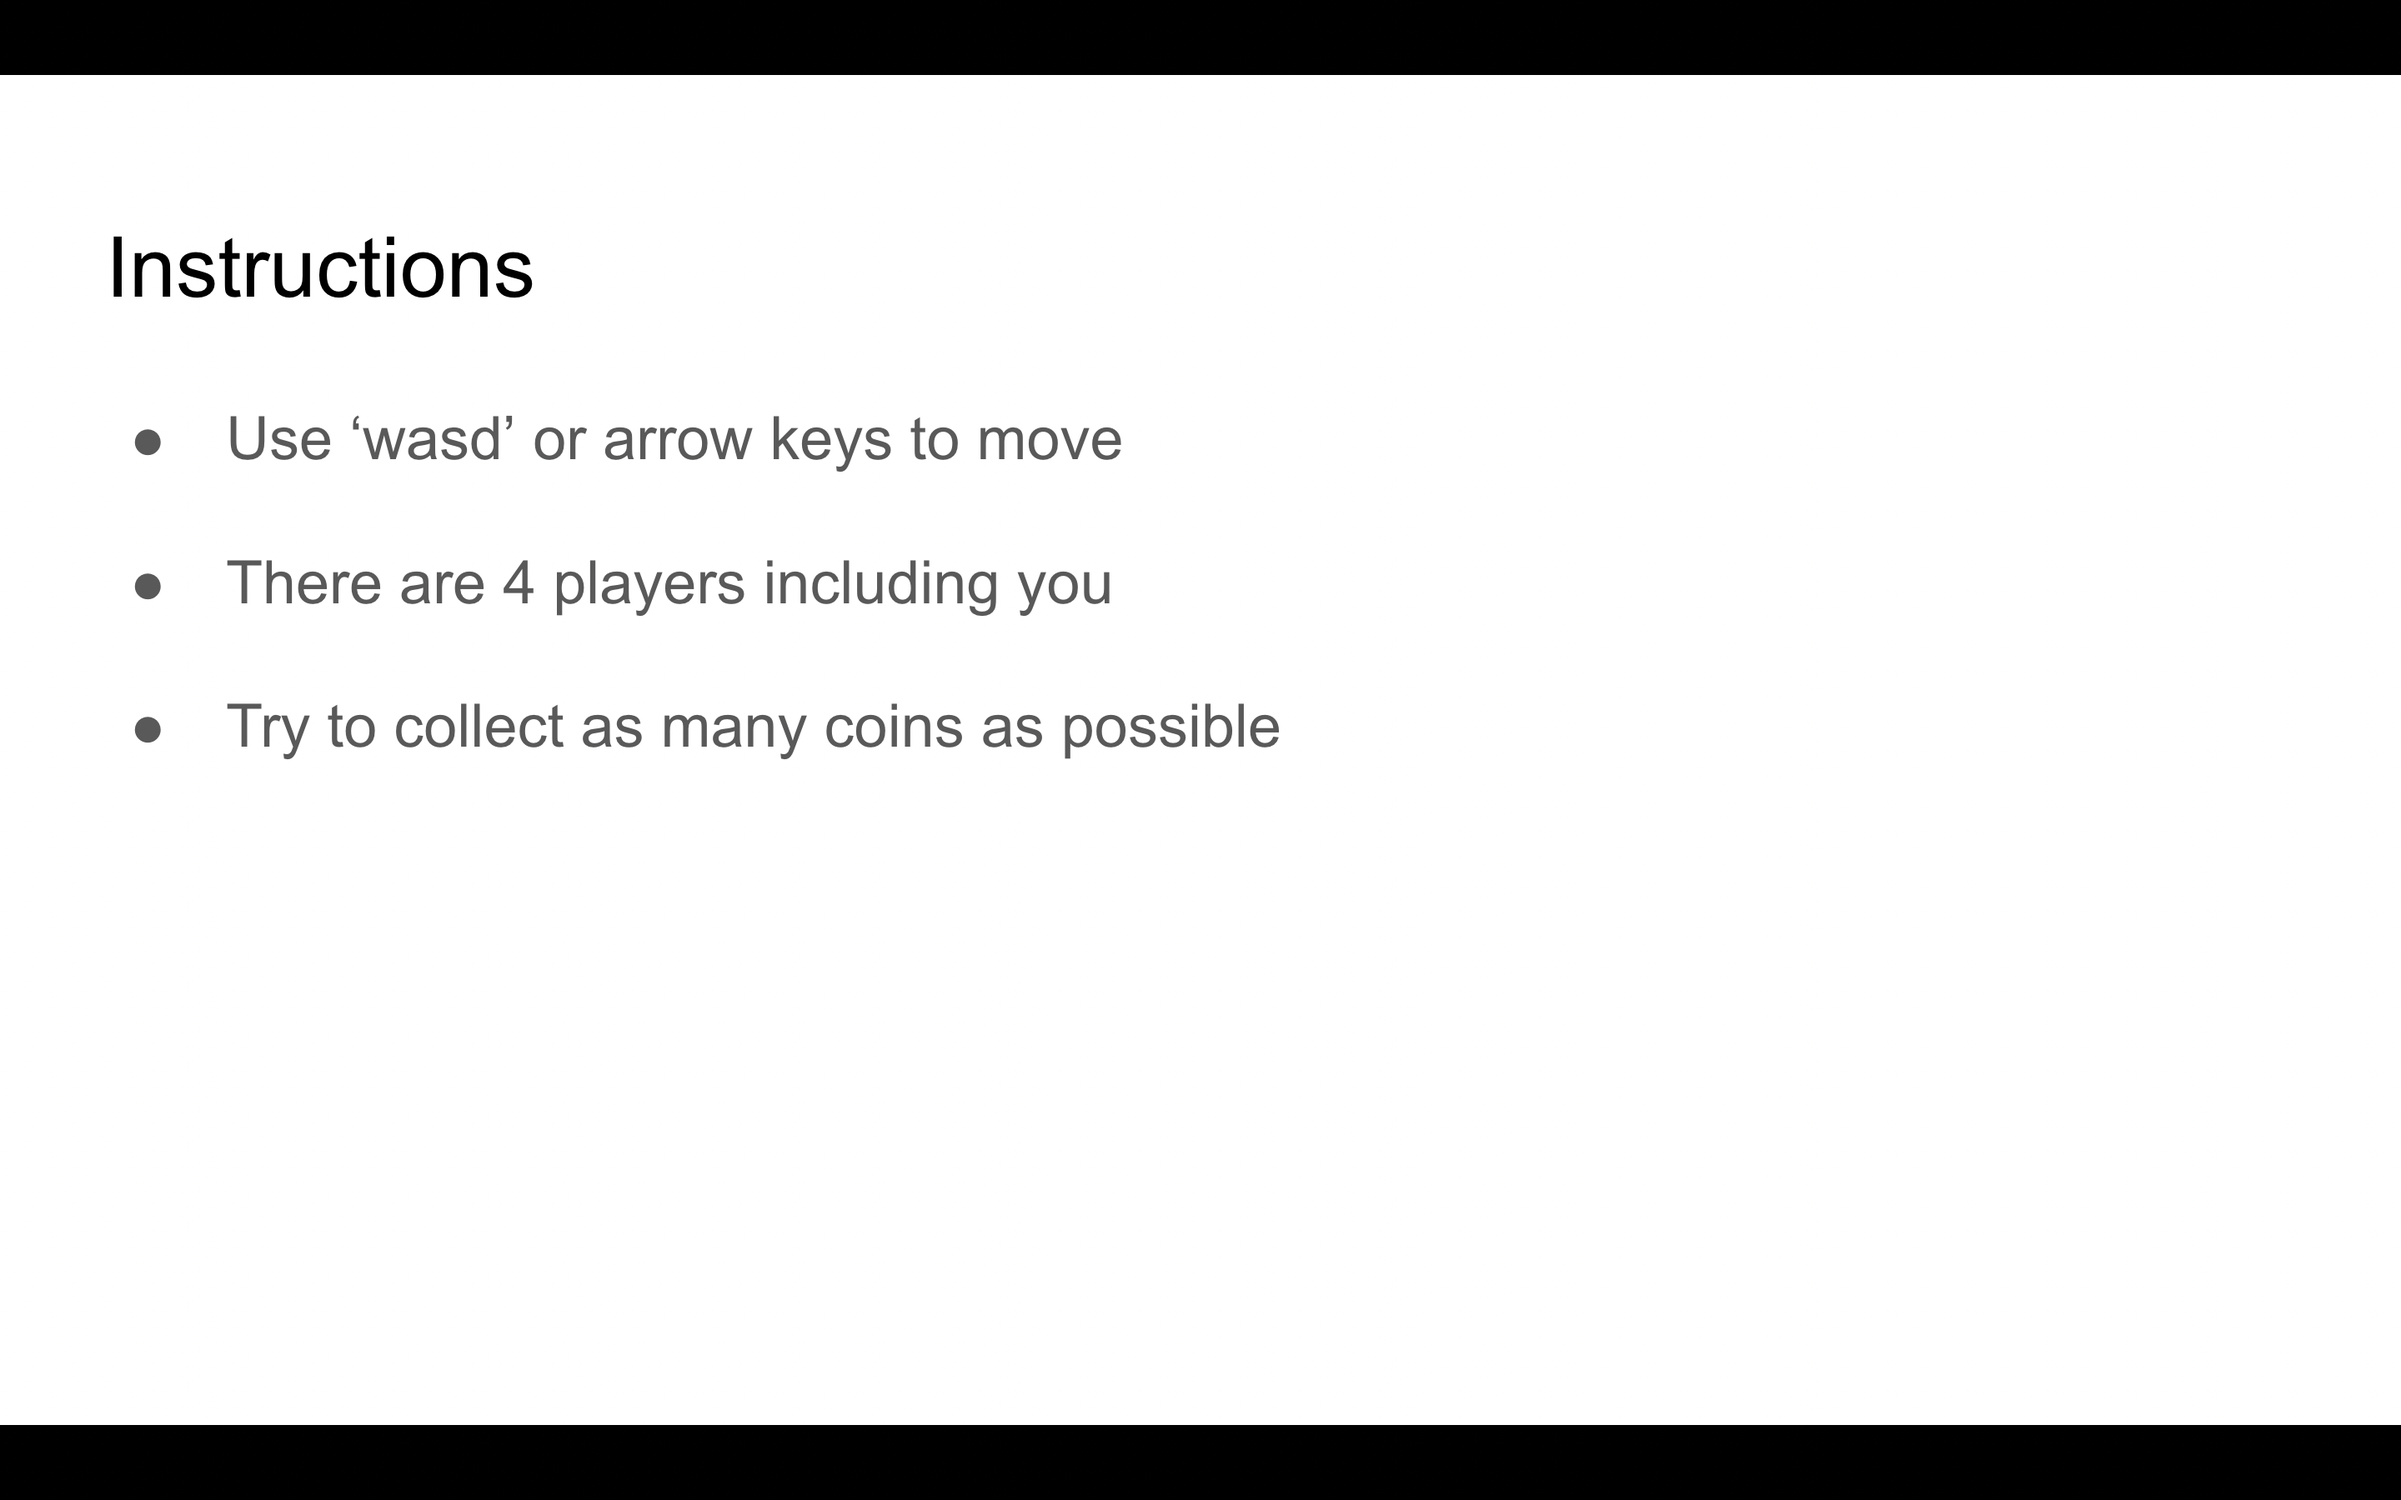
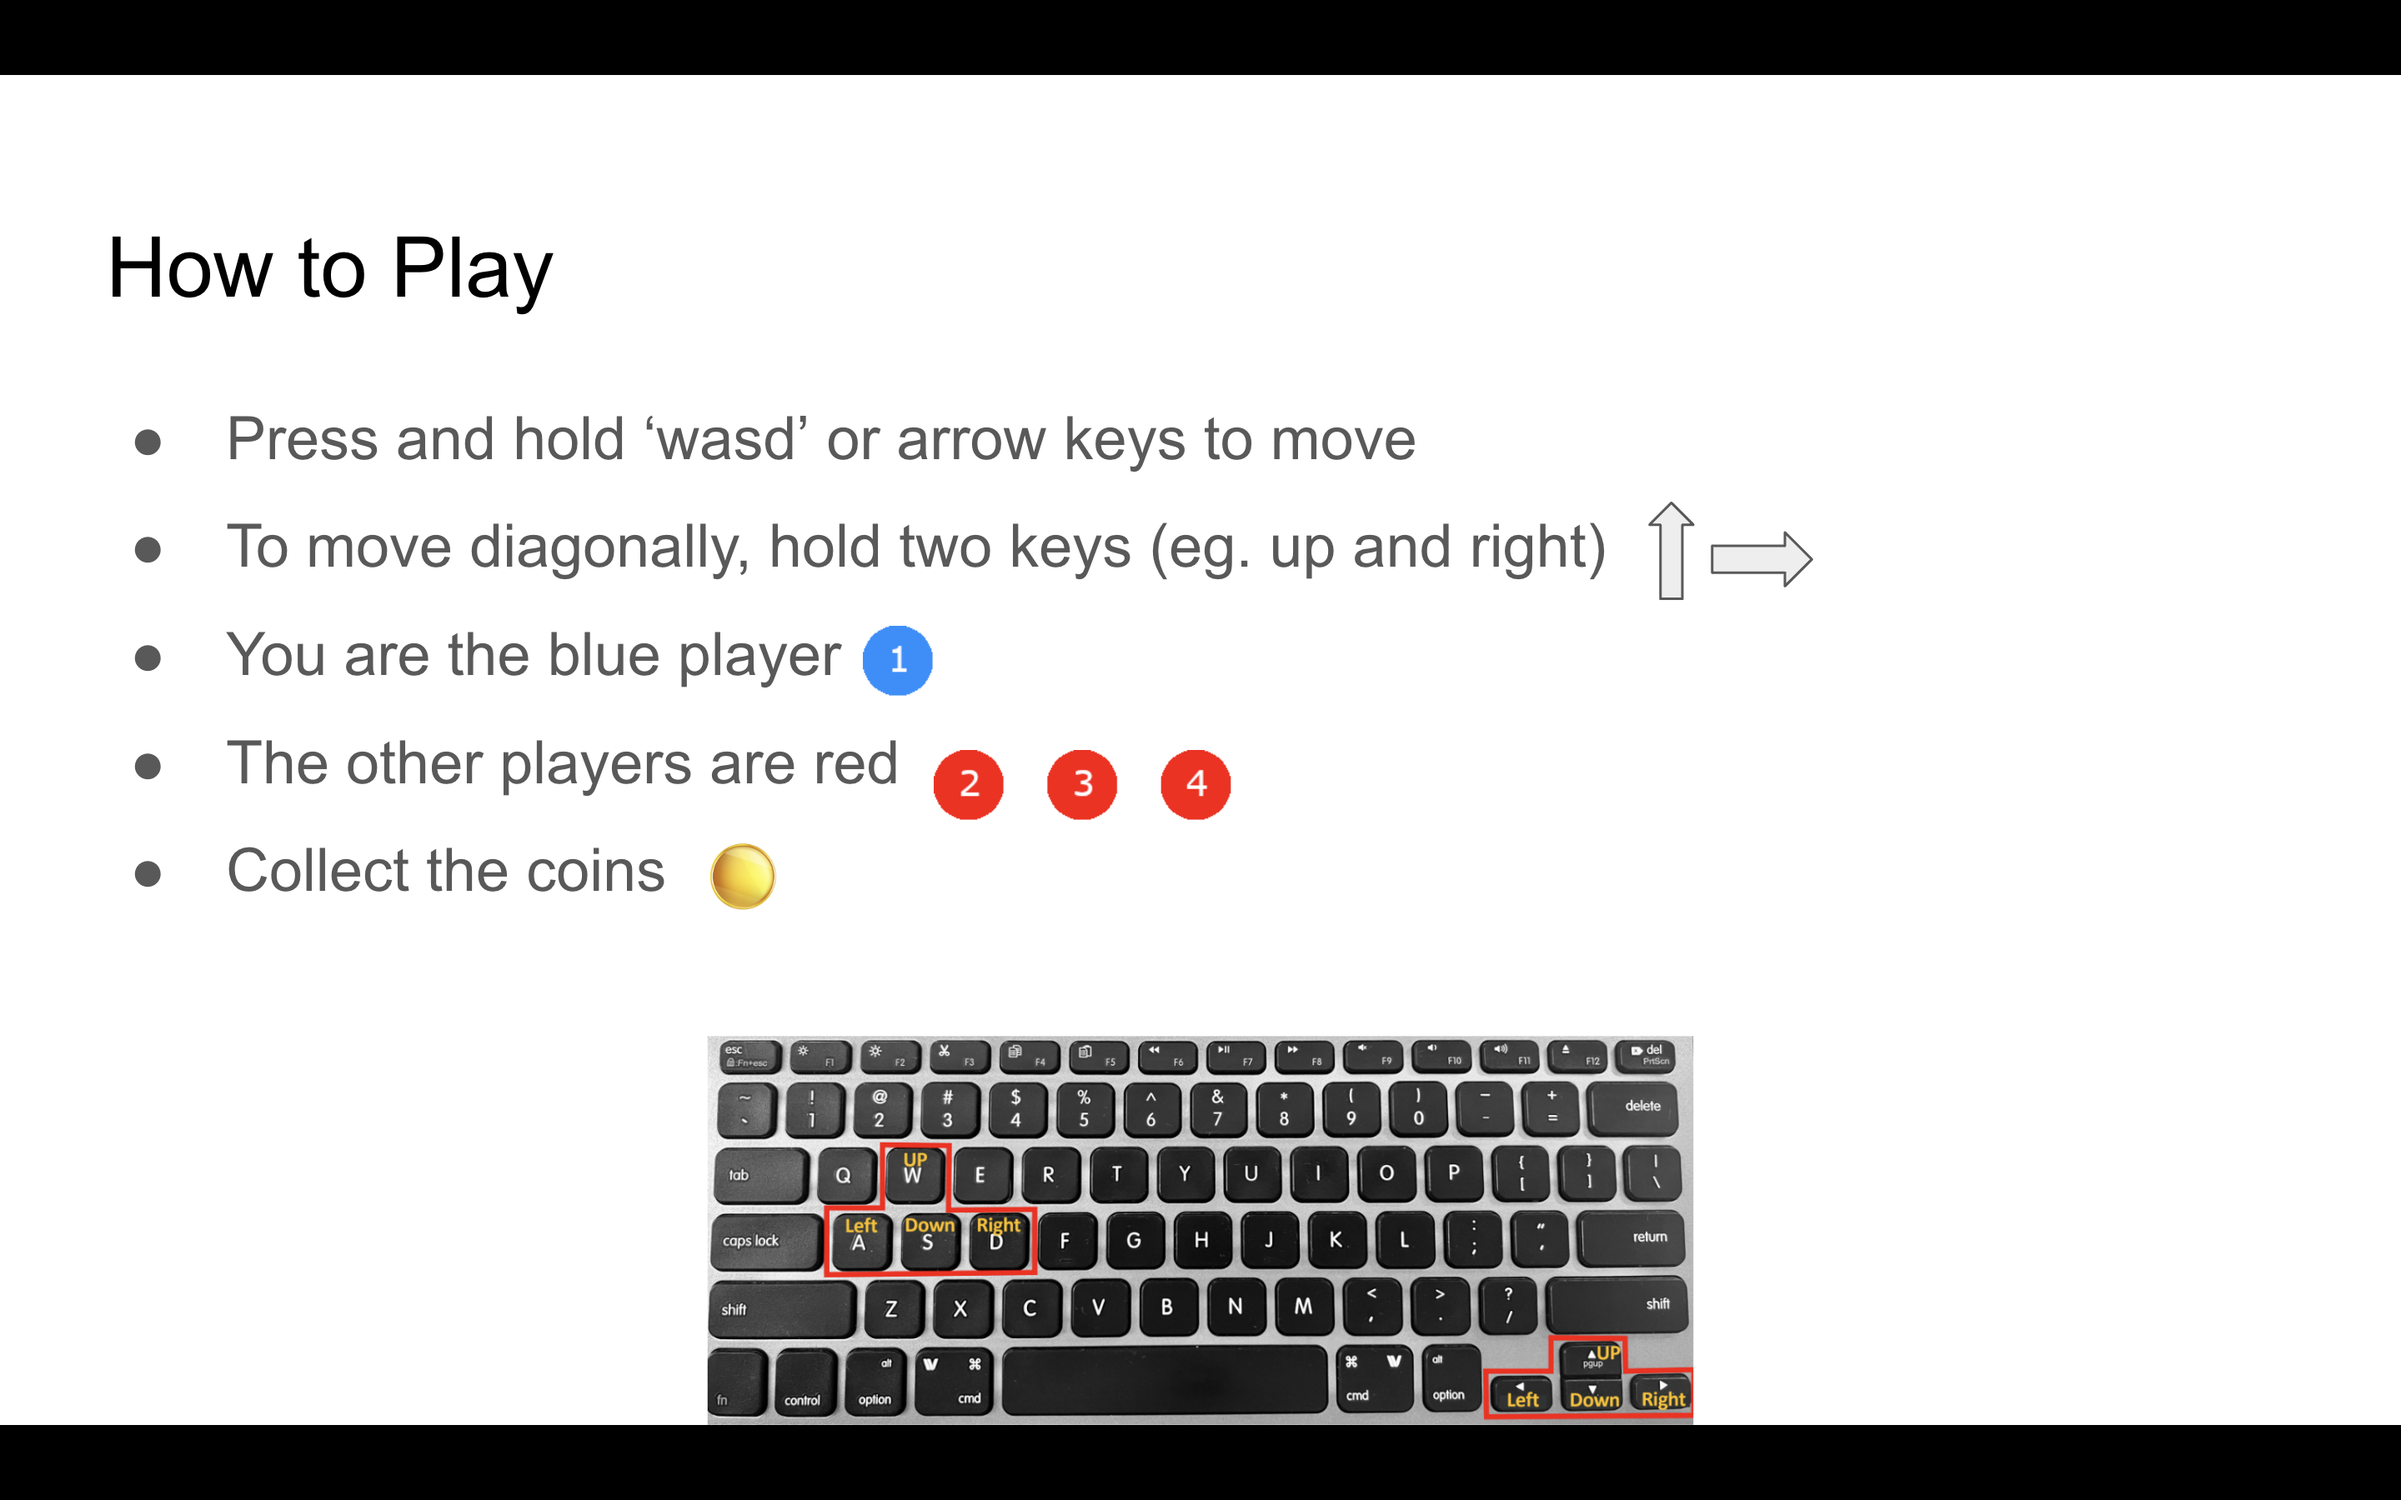
added better instructions + bandaid fix on enemy velocity + made player and enemy placement closer to the corners

diff --git a/PAT.py b/PAT.py
@@ -89,7 +89,7 @@ class PAT:
             else:
                 rounds = int(config["rounds"]) 
 
-                print(f"level {level} has {rounds} rounds")
+                #print(f"level {level} has {rounds} rounds")
                 res += rounds
 
         return res
@@ -134,7 +134,7 @@ class PAT:
         roundsCompleted = 0
 
         for currLevel in range(len(self.levels)):
-            print(f"The current level is {self.levels[currLevel]}")
+            #print(f"The current level is {self.levels[currLevel]}")
             level = Level(self,self.time,self.participantID,self.presetName,currLevel,self.levels,self.countdownList,roundsCompleted,self.totalRounds)
             level.main_loop()
 
@@ -147,7 +147,7 @@ class PAT:
             roundsCompleted = level.prevRoundsCompleted
 
             
-        print("writing log")
+        #print("writing log")
         self.logWriter.writeLog(self.info)
 
         final = FinalScreen(self.background)
@@ -182,7 +182,7 @@ class Level:
         self.levelNum = level
         self.levels = len(levelList)
         self.config = ConfigReader.parseToDict(f"{levelList[level]}","levelconfigs")
-        print(self.config)
+        #print(self.config)
         self.background = Pat.background
         self.res = Pat.res
         self.pauseFlag = True
@@ -275,7 +275,7 @@ class Level:
             for currRound in range(self.rounds):
                 round = Round(self.Pat,self.levelNum,currRound,self.config,self.totalRounds)
                 
-                self.countdown()
+                self.countdown(round.aGroup,round.cGroup)
 
                 while round.inProgress:
                     round.main_loop()
@@ -305,13 +305,15 @@ class Level:
     
 
 
-    def countdown(self):
+    def countdown(self,agents,coins):
         """
-        Blits a countdown screen. Duration is roughly 3 seconds
+        Blits a countdown screen. Duration is roughly 3 seconds (on my end)
         """
         for curr in self.countdownList:
             for _ in range(50):
                 curr.draw()
+                agents.draw(self.background.screen)
+                coins.draw(self.background.screen)
                 pygame.display.flip()
                 pygame.display.update()
                 pygame.event.get()
@@ -342,11 +344,13 @@ class Round:
           config: a dictionary of parameters for the level
         """
 
-        print(f"starting level {levelNum}, round {roundNum}")
+        #print(f"starting level {levelNum}, round {roundNum}")
         self.coinsLeft = config["numberOfCoins"]
         self.inProgress = True
         self.background = Pat.background
         self.res = Pat.res
+
+
 
         
 
@@ -406,26 +410,26 @@ class Round:
                 spawnCoord = numpy.random.normal(meanCoor[0],self.res[0] / 4),numpy.random.normal(meanCoor[1],self.res[1] / 6)
             
             coin = Coin(self.cGroup,self.background,spawnCoord)
-            print(spawnCoord)
+            #print(spawnCoord)
         
         
         for e in self.eGroup:
             e.coinObj = e.getNearestCoinCoord(self.cGroup)
-            print(f"initial objective set to {e.coinObj}")
+            #print(f"initial objective set to {e.coinObj}")
 
         
 
     
     def initGroups(self):
         #why is this here twice?
-        self.player = Player(self.background,self.aGroup,(self.res[0] // 4, self.res[1] // 4), self.config["playerVel"], "p1.png",seed)
+        self.player = Player(self.background,self.aGroup,(self.res[0] // 8, self.res[1] // 8), self.config["playerVel"], "p1.png",seed)
         
         #TODO: change the temporary spawn points of enemies, and change sprite
-        self.enemy1 = Enemy("player 2",self.background,self.aGroup,self.cGroup,(3 * self.res[0] // 4,self.res[1] // 4),self.config["enemy1Vel"],"p2.png",seed)
+        self.enemy1 = Enemy("player 2",self.background,self.aGroup,self.cGroup,(7 * self.res[0] // 8,self.res[1] // 8),self.config["enemy1Vel"],"p2.png",seed)
 
-        self.enemy2 = Enemy("player 3",self.background,self.aGroup,self.cGroup,(self.res[0] // 4,3 * self.res[1] // 4),self.config["enemy2Vel"],"p3.png",seed)
+        self.enemy2 = Enemy("player 3",self.background,self.aGroup,self.cGroup,(self.res[0] // 8,7 * self.res[1] // 8),self.config["enemy2Vel"],"p3.png",seed)
         
-        self.enemy3 = Enemy("player 4",self.background,self.aGroup,self.cGroup,(3 * self.res[0] // 4,3 * self.res[1] // 4),self.config["enemy3Vel"],"p4.png",seed)
+        self.enemy3 = Enemy("player 4",self.background,self.aGroup,self.cGroup,(7 * self.res[0] // 8,7 * self.res[1] // 8),self.config["enemy3Vel"],"p4.png",seed)
 
         self.eGroup.add(self.enemy1)
         self.eGroup.add(self.enemy2)
@@ -462,6 +466,7 @@ class Round:
         self.player.getInput(keys,self.time_passed)
 
     def _process_game_logic(self,keys):
+        print(self.time)
         """
         The function is called every frame and it checks for collisions between the agents and
         the coins, updates the agents' coin count, and updates the timer
@@ -481,7 +486,7 @@ class Round:
             self.coinsLeft -= 1
 
         if len(collectFlag) > 0:
-            print("setting new objectives")
+            #print("setting new objectives")
             #reupdate the coin objectives
             for e in self.eGroup:
                 e.setObj(self.cGroup) 
@@ -489,12 +494,9 @@ class Round:
         
         
 
-        
         for e in self.eGroup:
-            if self.coinsLeft > 0:
+            if self.coinsLeft > 0 and self.time > 10:
                 e.randomWalk()
-        
-        #TODO: flag whenever all coins are gone to end "level"
 
         if self.coinsLeft <= 0 or len(self.cGroup) == 0:
             print("finished level")
@@ -513,6 +515,8 @@ class Round:
         #Clock updates
         self.HUD.updateTimer(self.time_passed)
         self.updateInfo(keys)
+
+
 
     def _draw(self):
         """

diff --git a/background.py b/background.py
@@ -828,14 +828,21 @@ class PauseScreen:
             
 class InstrScreen:
     def __init__(self,res):
-        self.background = Background(res,image="instructions.png",isBackground=True)
-        self.size = int(min(self.background.res[0],self.background.res[1]) * 0.02)
+        self.desc = Background(res,image="desc.png",isBackground=True)
+        self.instr = Background(res,image="instructions.png",isBackground=True)
+        self.size = int(min(self.desc.res[0],self.desc.res[1]) * 0.02)
         self.font = pygame.font.SysFont('arial',self.size)
+        
+        #can go to the next set of instructions
+        self.nextInstr = False
+
+        #can go past the instructions screen
         self.proceed = False        
 
         
         self.startRect = (1100,710,self.font.size('Start')[0]+10,self.font.size('Start')[1] + 10)
         self.startText = self.font.render('Start',True,(0,0,0))
+        self.nextText = self.font.render('Next',True,(0,0,0))
 
     def mainLoop(self):
         self.draw()
@@ -848,9 +855,14 @@ class InstrScreen:
         '''
         draws the instructions as a background and a button to start
         '''
-        self.background.draw()
-        pygame.draw.rect(self.background.screen,(150,150,150),self.startRect)
-        self.background.screen.blit(self.startText,self.startRect)
+        if not self.nextInstr:
+            self.desc.draw()
+            pygame.draw.rect(self.desc.screen,(150,150,150),self.startRect)
+            self.desc.screen.blit(self.nextText,self.startRect)
+        else:
+            self.instr.draw()
+            pygame.draw.rect(self.instr.screen,(150,150,150),self.startRect)
+            self.instr.screen.blit(self.startText,self.startRect)
 
     def interaction(self):
         """
@@ -887,9 +899,11 @@ class InstrScreen:
         inY = y in range(self.startRect[1], self.startRect[1] + self.startRect[3])
 
         if inX and inY:
-            self.startText = self.font.render('Start',True,(0,200,0)) 
+            self.startText = self.font.render('Start',True,(0,200,0))
+            self.nextText = self.font.render('Next',True,(0,200,0))
         else:
             self.startText = self.font.render('Start',True,(0,0,0))
+            self.nextText = self.font.render('Next',True,(0,0,0))
 
     def menuInteraction(self,pos):
         """"
@@ -906,7 +920,10 @@ class InstrScreen:
         inY = y in range(self.startRect[1], self.startRect[1] + self.startRect[3])
 
         if inX and inY:
-            self.proceed = True 
+            if not self.nextInstr:
+                self.nextInstr = True
+            else:
+                self.proceed = True 
 
     
 

diff --git a/objects.py b/objects.py
@@ -105,7 +105,7 @@ class GameObject(pygame.sprite.Sprite):
         self.prev_time = pygame.time.get_ticks()
         
         # to correct for different framerates
-        self.correct_vel = self.vel * self.time_passed / 5 # this is a good speed
+        self.correct_vel = 4 # this is a good speed
 
 
     #direction is horizontal, then veritical
@@ -121,6 +121,7 @@ class GameObject(pygame.sprite.Sprite):
         """
         
         self.update_velocity()
+        print(self.correct_vel)
         self.x += horizontal * self.correct_vel
         self.y += vertical * self.correct_vel
 
